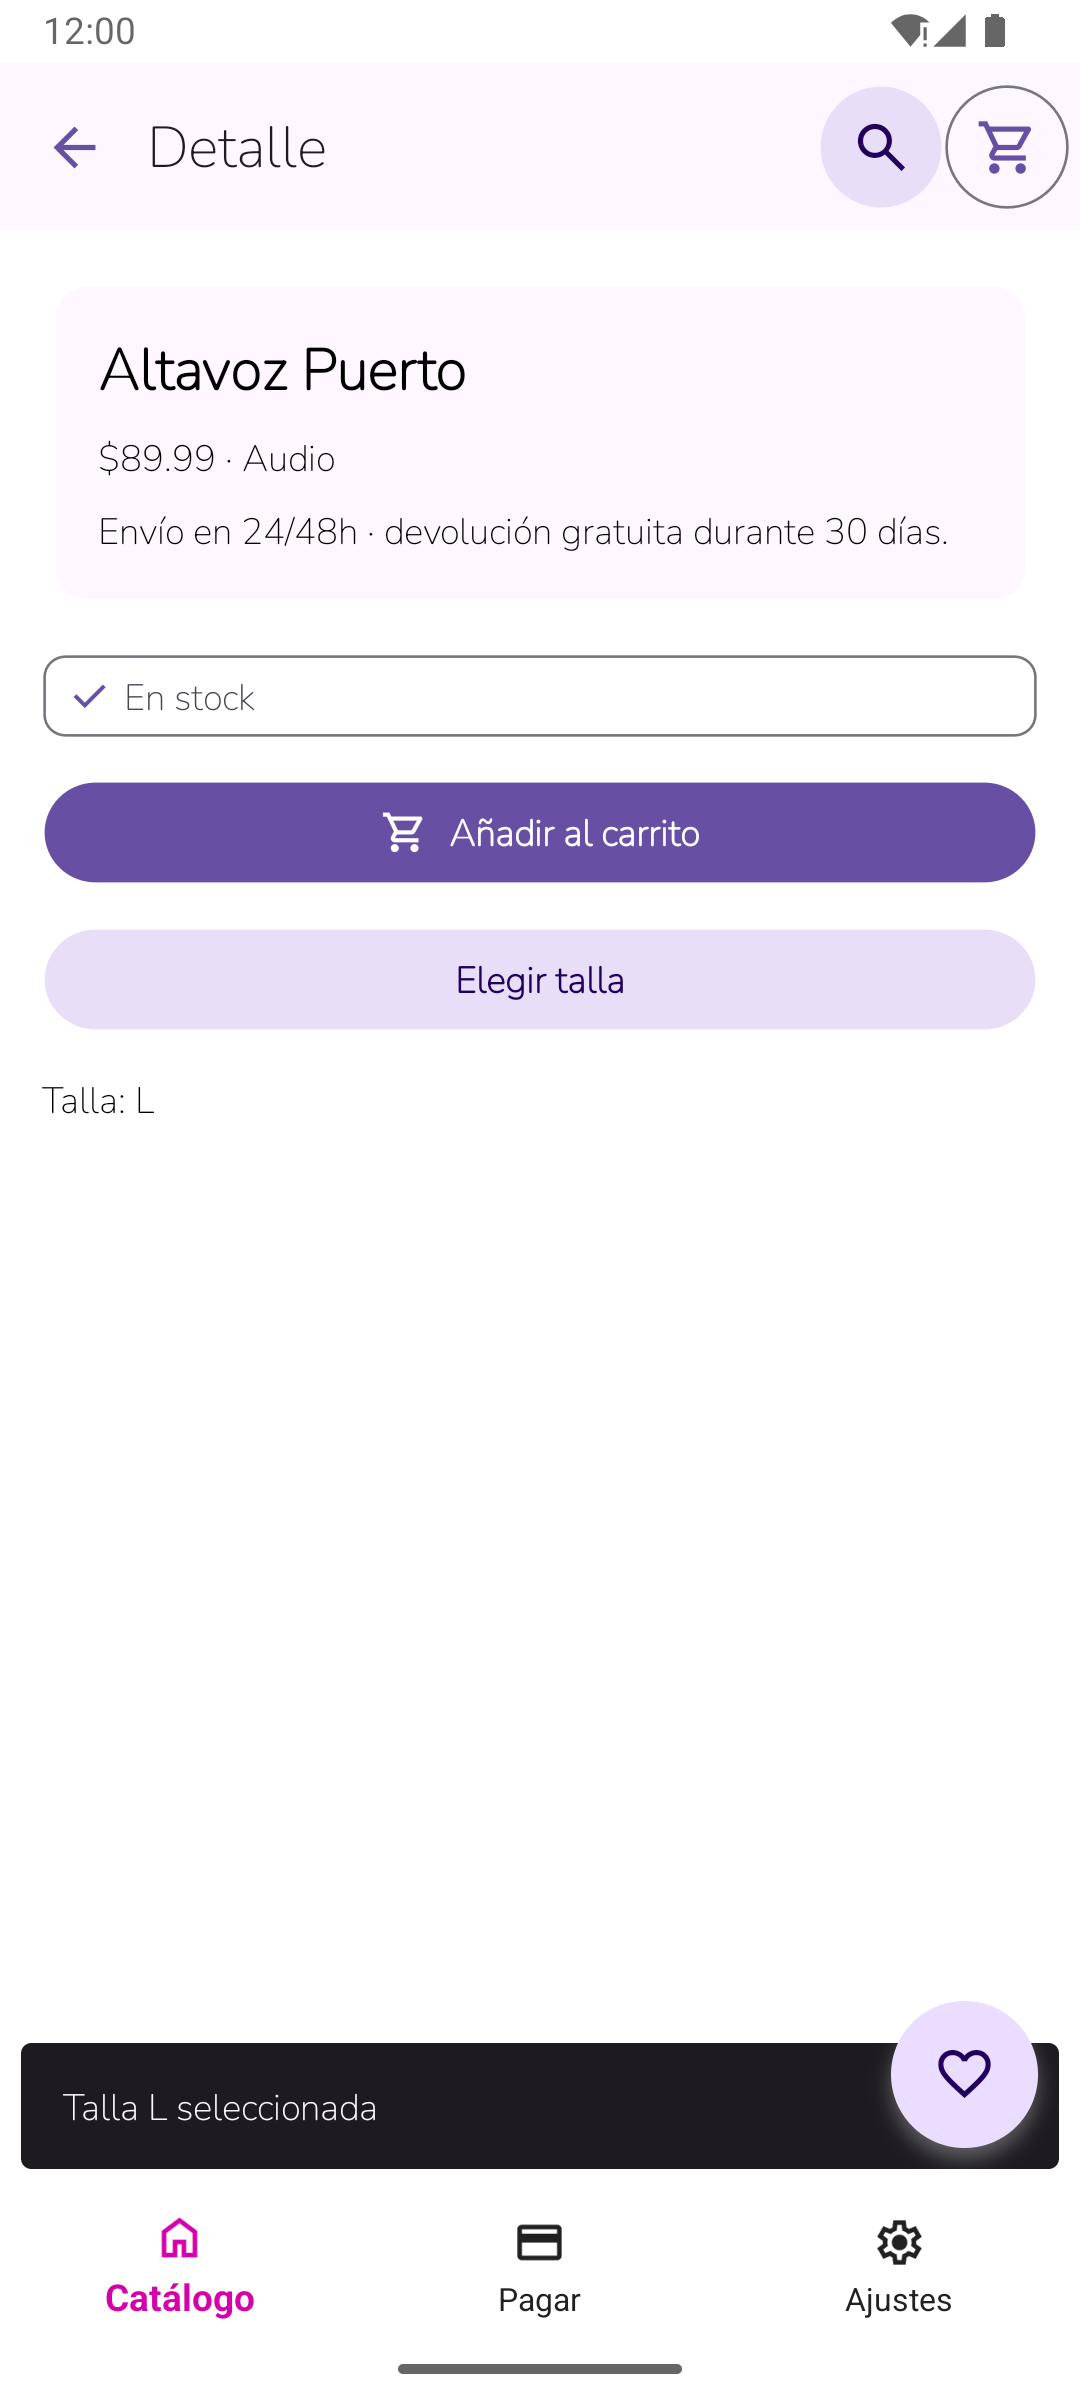
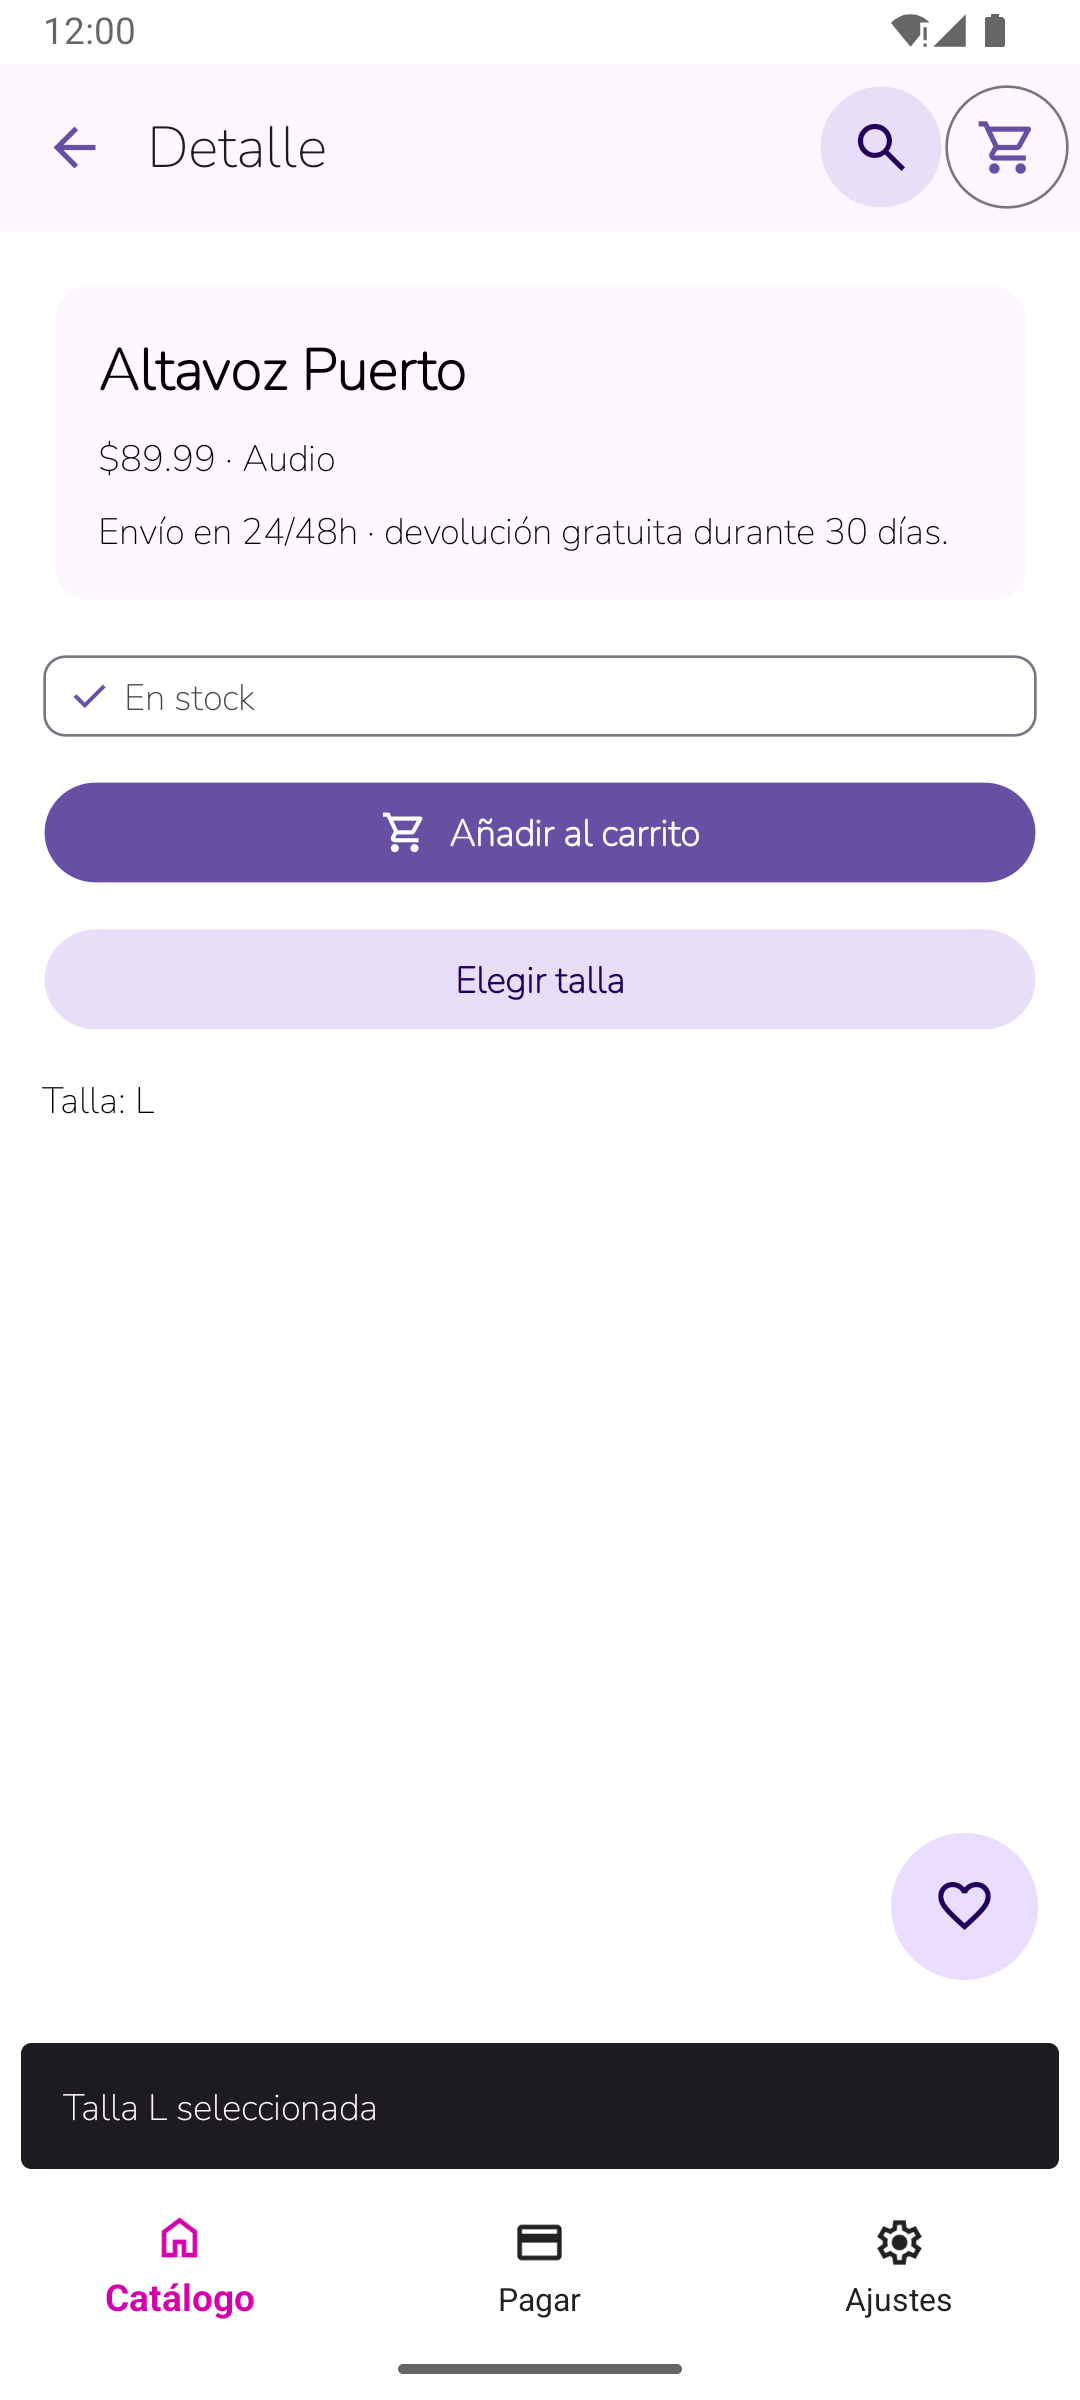
fix: lift the FAB while a snackbar is visible (Material 3)
M3FabHost gains a Snackbar property; M3SnackbarHost exposes
OccupiedHeight and OccupiedHeightChanged. The FAB slot translates up by
the snackbar's height plus margin and animates back when it hides.
Sample pages wired up, docs and screenshot refreshed, 8 new tests.

Changed region(s): [[0.825, 0.75, 0.9778, 0.9062]]

diff --git a/Esagaweb.Maui.Android.Sample/Pages/CatalogPage.xaml b/Esagaweb.Maui.Android.Sample/Pages/CatalogPage.xaml
@@ -13,7 +13,7 @@
               x:Class="Esagaweb.Maui.Android.Sample.Pages.CatalogPage"
               Shell.NavBarIsVisible="False"
               Title="Catálogo">
-    <fab:M3FabHost>
+    <fab:M3FabHost Snackbar="{x:Reference Snacks}">
         <fab:M3FabHost.Body>
             <Grid RowDefinitions="Auto,Auto,*,Auto">
         <appbar:M3TopAppBar x:Name="TopBar"

diff --git a/Esagaweb.Maui.Android.Sample/Pages/DetailPage.xaml b/Esagaweb.Maui.Android.Sample/Pages/DetailPage.xaml
@@ -13,7 +13,7 @@
              x:Class="Esagaweb.Maui.Android.Sample.Pages.DetailPage"
              Shell.NavBarIsVisible="False"
              Title="Detalle">
-    <fab:M3FabHost>
+    <fab:M3FabHost Snackbar="{x:Reference Snacks}">
         <fab:M3FabHost.Body>
             <Grid RowDefinitions="Auto,*,Auto">
         <appbar:M3TopAppBar Title="Detalle"

diff --git a/Esagaweb.Maui.Android/Controls/Fab/M3FabHost.xaml.cs b/Esagaweb.Maui.Android/Controls/Fab/M3FabHost.xaml.cs
@@ -1,16 +1,20 @@
 namespace Esagaweb.Maui.Android.Controls.Fab;
 
 /// <summary>Host layout that docks a floating action button over page content.</summary>
-/// <remarks>Supports End and Center positions anchored to the bottom edge. Use this host instead of a manual overlay grid when a floating button is needed on a page.</remarks>
+/// <remarks>Supports End and Center positions anchored to the bottom edge. Use this host instead of a manual overlay grid when a floating button is needed on a page. Set <see cref="Snackbar"/> to a <see cref="Controls.Snackbar.M3SnackbarHost"/> to automatically lift the FAB while the snackbar is visible (Material 3 behavior).</remarks>
 /// <example>
 /// <code><![CDATA[
 /// <ContentPage xmlns="http://schemas.microsoft.com/dotnet/2021/maui"
 ///              xmlns:x="http://schemas.microsoft.com/winfx/2009/xaml"
 ///              xmlns:fab="clr-namespace:Esagaweb.Maui.Android.Controls.Fab;assembly=Esagaweb.Maui.Android"
-///              xmlns:common="clr-namespace:Esagaweb.Maui.Android.Controls.Common;assembly=Esagaweb.Maui.Android">
-///     <fab:M3FabHost Location="End">
+///              xmlns:common="clr-namespace:Esagaweb.Maui.Android.Controls.Common;assembly=Esagaweb.Maui.Android"
+///              xmlns:snack="clr-namespace:Esagaweb.Maui.Android.Controls.Snackbar;assembly=Esagaweb.Maui.Android">
+///     <fab:M3FabHost Location="End" Snackbar="{x:Reference Snacks}">
 ///         <fab:M3FabHost.Body>
-///             <!-- Page content. -->
+///             <Grid RowDefinitions="*,Auto">
+///                 <!-- Page content. -->
+///                 <snack:M3SnackbarHost x:Name="Snacks" Grid.Row="1" />
+///             </Grid>
 ///         </fab:M3FabHost.Body>
 ///         <fab:M3FabHost.FabContent>
 ///             <fab:M3Fab Variant="Primary"
@@ -39,6 +43,11 @@ public partial class M3FabHost : ContentView
         BindableProperty.Create(nameof(Location), typeof(M3FabLocation), typeof(M3FabHost),
             M3FabLocation.End, propertyChanged: (b, _, _) => ((M3FabHost)b).UpdateFab());
 
+    /// <summary>Identifies the <see cref="Snackbar"/> bindable property.</summary>
+    public static readonly BindableProperty SnackbarProperty =
+        BindableProperty.Create(nameof(Snackbar), typeof(Controls.Snackbar.M3SnackbarHost), typeof(M3FabHost), null,
+            propertyChanged: (b, _, n) => ((M3FabHost)b).OnSnackbarChanged((Controls.Snackbar.M3SnackbarHost?)n));
+
     /// <summary>Gets or sets the main page content displayed under the floating button. The default is null.</summary>
     /// <remarks>This is a bindable property.</remarks>
     public View? Body
@@ -63,12 +72,67 @@ public partial class M3FabHost : ContentView
         set => SetValue(LocationProperty, value);
     }
 
+    /// <summary>
+    /// Gets or sets the snackbar host whose visibility controls the FAB vertical offset.
+    /// When the snackbar is visible, the FAB translates upward by the snackbar occupied height (Material 3 behavior).
+    /// The default is <see langword="null"/>.
+    /// </summary>
+    /// <remarks>This is a bindable property.</remarks>
+    public Controls.Snackbar.M3SnackbarHost? Snackbar
+    {
+        get => (Controls.Snackbar.M3SnackbarHost?)GetValue(SnackbarProperty);
+        set => SetValue(SnackbarProperty, value);
+    }
+
     /// <summary>Initializes a new instance of the <see cref="M3FabHost"/> class.</summary>
     public M3FabHost()
     {
         InitializeComponent();
         UpdateFab();
     }
+
+    private Controls.Snackbar.M3SnackbarHost? _snackbar;
+
+    private void OnSnackbarChanged(Controls.Snackbar.M3SnackbarHost? newSnackbar)
+    {
+        if (_snackbar is not null)
+        {
+            _snackbar.OccupiedHeightChanged -= OnSnackbarOccupiedHeightChanged;
+        }
+        _snackbar = newSnackbar;
+        if (_snackbar is not null)
+        {
+            _snackbar.OccupiedHeightChanged += OnSnackbarOccupiedHeightChanged;
+        }
+        ApplySnackbarOffset();
+    }
+
+    private void OnSnackbarOccupiedHeightChanged(object? sender, EventArgs e)
+    {
+        ApplySnackbarOffset();
+    }
+
+    private void ApplySnackbarOffset()
+    {
+        var offset = _snackbar?.OccupiedHeight ?? 0;
+        var translation = ComputeFabTranslation(offset);
+        if (FabSlot.IsLoaded && FabSlot.Handler is not null)
+        {
+            _ = FabSlot.TranslateToAsync(0, translation, 150, Easing.CubicOut);
+        }
+        else
+        {
+            FabSlot.TranslationY = translation;
+        }
+    }
+
+    /// <summary>
+    /// Computes the vertical translation for the FAB slot based on the snackbar occupied height.
+    /// </summary>
+    /// <param name="occupiedHeight">The vertical space occupied by the snackbar.</param>
+    /// <returns>The translation value (negative to move up, zero when no offset needed).</returns>
+    internal static double ComputeFabTranslation(double occupiedHeight)
+        => -Math.Max(0, occupiedHeight);
 
     private void UpdateFab()
     {

diff --git a/Esagaweb.Maui.Android/Controls/Snackbar/M3SnackbarHost.xaml.cs b/Esagaweb.Maui.Android/Controls/Snackbar/M3SnackbarHost.xaml.cs
@@ -17,6 +17,7 @@ public partial class M3SnackbarHost : ContentView
 
     private IDispatcherTimer? _timer;
     private M3SnackbarRequest? _shown;
+    private double _lastOccupiedHeight;
 
     /// <summary>Initializes a new instance of the <see cref="M3SnackbarHost"/> class.</summary>
     public M3SnackbarHost()
@@ -30,12 +31,45 @@ public partial class M3SnackbarHost : ContentView
             ActionInvoked?.Invoke(this, EventArgs.Empty);
             Queue.DismissCurrent();
         };
+        Bar.SizeChanged += (_, _) => RaiseOccupiedHeightChanged();
         ApplyTheme();
         Refresh();
     }
 
     /// <summary>Occurs when the notice action button is tapped.</summary>
     public event EventHandler? ActionInvoked;
+
+    /// <summary>
+    /// Occurs when <see cref="OccupiedHeight"/> changes.
+    /// </summary>
+    public event EventHandler? OccupiedHeightChanged;
+
+    /// <summary>
+    /// Gets the vertical space occupied by the visible snackbar bar, including its margin.
+    /// Returns 0 when the bar is hidden or has not been measured yet.
+    /// </summary>
+    public double OccupiedHeight => ComputeOccupiedHeight(Bar.IsVisible, Bar.Height, Bar.Margin);
+
+    /// <summary>
+    /// Computes the vertical space occupied by the snackbar bar.
+    /// </summary>
+    /// <param name="visible">Whether the bar is currently visible.</param>
+    /// <param name="barHeight">The measured height of the bar. Values less than or equal to zero mean not yet measured.</param>
+    /// <param name="margin">The margin applied to the bar.</param>
+    /// <returns>The occupied vertical space (bar height plus vertical margin), or 0 when hidden or not yet measured.</returns>
+    internal static double ComputeOccupiedHeight(bool visible, double barHeight, Thickness margin)
+        => visible && barHeight > 0 ? barHeight + margin.VerticalThickness : 0;
+
+    private void RaiseOccupiedHeightChanged()
+    {
+        var height = OccupiedHeight;
+        if (Math.Abs(height - _lastOccupiedHeight) < 0.01)
+        {
+            return;
+        }
+        _lastOccupiedHeight = height;
+        OccupiedHeightChanged?.Invoke(this, EventArgs.Empty);
+    }
 
     /// <summary>Enqueues a notice with message text, optional action text, and optional duration.</summary>
     /// <param name="message">The message text to display.</param>
@@ -52,12 +86,14 @@ public partial class M3SnackbarHost : ContentView
         if (_shown is null)
         {
             Bar.IsVisible = false;
+            RaiseOccupiedHeightChanged();
             return;
         }
         MessageLabel.Text = _shown.Message;
         ActionButton.Text = _shown.ActionText ?? string.Empty;
         ActionButton.IsVisible = !string.IsNullOrEmpty(_shown.ActionText);
         Bar.IsVisible = true;
+        RaiseOccupiedHeightChanged();
         var seconds = _shown.Duration?.TotalSeconds
             ?? M3ControlHelper.ResDouble("M3SnackbarDurationSeconds", 4);
         _timer = Dispatcher.CreateTimer();

diff --git a/Esagaweb.Maui.Android.Tests/M3FabSnackbarTests.cs b/Esagaweb.Maui.Android.Tests/M3FabSnackbarTests.cs
@@ -1,0 +1,61 @@
+using Esagaweb.Maui.Android.Controls.Fab;
+using Esagaweb.Maui.Android.Controls.Snackbar;
+using Xunit;
+
+namespace Esagaweb.Maui.Android.Tests;
+
+public class M3FabSnackbarTests
+{
+    [Fact]
+    public void ComputeOccupiedHeight_Hidden_ReturnsZero()
+    {
+        var margin = new Thickness(8);
+        Assert.Equal(0, M3SnackbarHost.ComputeOccupiedHeight(false, 48, margin));
+    }
+
+    [Fact]
+    public void ComputeOccupiedHeight_VisibleNotMeasured_ReturnsZero()
+    {
+        var margin = new Thickness(8);
+        Assert.Equal(0, M3SnackbarHost.ComputeOccupiedHeight(true, 0, margin));
+    }
+
+    [Fact]
+    public void ComputeOccupiedHeight_VisibleNotMeasuredNegative_ReturnsZero()
+    {
+        var margin = new Thickness(8);
+        Assert.Equal(0, M3SnackbarHost.ComputeOccupiedHeight(true, -1, margin));
+    }
+
+    [Fact]
+    public void ComputeOccupiedHeight_Visible48WithMargin8_Returns64()
+    {
+        var margin = new Thickness(8);
+        Assert.Equal(64, M3SnackbarHost.ComputeOccupiedHeight(true, 48, margin));
+    }
+
+    [Fact]
+    public void ComputeOccupiedHeight_Visible48WithMargin0_Returns48()
+    {
+        var margin = new Thickness(0);
+        Assert.Equal(48, M3SnackbarHost.ComputeOccupiedHeight(true, 48, margin));
+    }
+
+    [Fact]
+    public void ComputeFabTranslation_Zero_ReturnsZero()
+    {
+        Assert.Equal(0, M3FabHost.ComputeFabTranslation(0));
+    }
+
+    [Fact]
+    public void ComputeFabTranslation_64_ReturnsNegative64()
+    {
+        Assert.Equal(-64, M3FabHost.ComputeFabTranslation(64));
+    }
+
+    [Fact]
+    public void ComputeFabTranslation_Negative_ReturnsZero()
+    {
+        Assert.Equal(0, M3FabHost.ComputeFabTranslation(-10));
+    }
+}

diff --git a/CHANGELOG.md b/CHANGELOG.md
@@ -7,6 +7,8 @@ Versions follow [SemVer](https://semver.org/).
 
 ### Added
 - `CommandParameter` property on `M3Fab` and `M3IconButton`.
+- `M3FabHost.Snackbar` property: connects a `M3SnackbarHost` so the FAB translates upward while the snackbar is visible (Material 3 behavior).
+- `M3SnackbarHost.OccupiedHeight` (readonly) and `OccupiedHeightChanged` event: expose the vertical space occupied by the visible snackbar bar.
 
 ### Fixed
 - `M3Dialog.ShowAsync`: hangs when modal is dismissed with hardware back button (now handles back via `M3ModalHostPage`); idempotent `CloseAsync`; re-entrant `ShowAsync` returns existing task.
@@ -17,6 +19,7 @@ Versions follow [SemVer](https://semver.org/).
 - `M3BottomSheet` / `M3TextField`: the scrim, the drag handle and the indicator line turned opaque dark gray in apps using the default MAUI template styles (implicit `BoxView` style); their `BackgroundColor` is now set explicitly.
 - `M3TextField` (Android): the native `EditText` underline was drawn inside the field; it is now hidden.
 - `M3RadioRow` (Android): the radio circle used the app's `colorAccent` instead of the Material 3 palette (nearly invisible in dark theme); it now uses `M3Primary` / `M3DarkPrimary` when checked and the outline color when unchecked, and follows live theme changes.
+- FAB was covered by the snackbar; now it lifts while the snackbar is visible (Material 3).
 
 ### Changed
 - XML documentation (IntelliSense) translated to English and expanded: defaults, parameters, return values and XAML examples.

diff --git a/docs/M3Fab.md b/docs/M3Fab.md
@@ -35,15 +35,22 @@ Extended secondary:
 Host that docks the FAB over any content (`Body` + `FabContent`, `Location` `End`/`Center`):
 
 ```xml
-<fab:M3FabHost>
+<fab:M3FabHost Snackbar="{x:Reference Snacks}">
     <fab:M3FabHost.Body>
-        <ScrollView><!-- content --></ScrollView>
+        <Grid RowDefinitions="*,Auto">
+            <ScrollView><!-- content --></ScrollView>
+            <snack:M3SnackbarHost x:Name="Snacks" Grid.Row="1" />
+        </Grid>
     </fab:M3FabHost.Body>
     <fab:M3FabHost.FabContent>
         <fab:M3Fab Glyph="{x:Static common:M3Icons.Favorite}" Clicked="OnFavClicked" />
     </fab:M3FabHost.FabContent>
 </fab:M3FabHost>
 ```
+
+| Parameter | Type | Default | Notes |
+|---|---|---|---|
+| `Snackbar` | `M3SnackbarHost` | `null` | When set, the FAB translates upward by the snackbar occupied height while the snackbar is visible (Material 3 behavior). |
 
 ## Notes
 

diff --git a/docs/M3Snackbar.md b/docs/M3Snackbar.md
@@ -20,6 +20,8 @@ Snacks.Show("Simple notice");         // 4s by default
 - `M3SnackbarHost.Queue` (`M3SnackbarQueue`): observable FIFO queue.
 - `Show(message, actionText?, duration?)`: shortcut to enqueue.
 - `ActionInvoked` event when the action is tapped.
+- `OccupiedHeight` (readonly `double`): vertical space occupied by the visible snackbar bar (height + margin), or 0 when hidden or not yet measured.
+- `OccupiedHeightChanged` event: raised when `OccupiedHeight` changes (e.g., after layout measures a multi-line message).
 - `M3SnackbarQueue`: `Current`, `PendingCount`, `Enqueue()`, `DismissCurrent()`, `Clear()`, `Changed` event, `DefaultDuration` (4s).
 
 ## Notes
